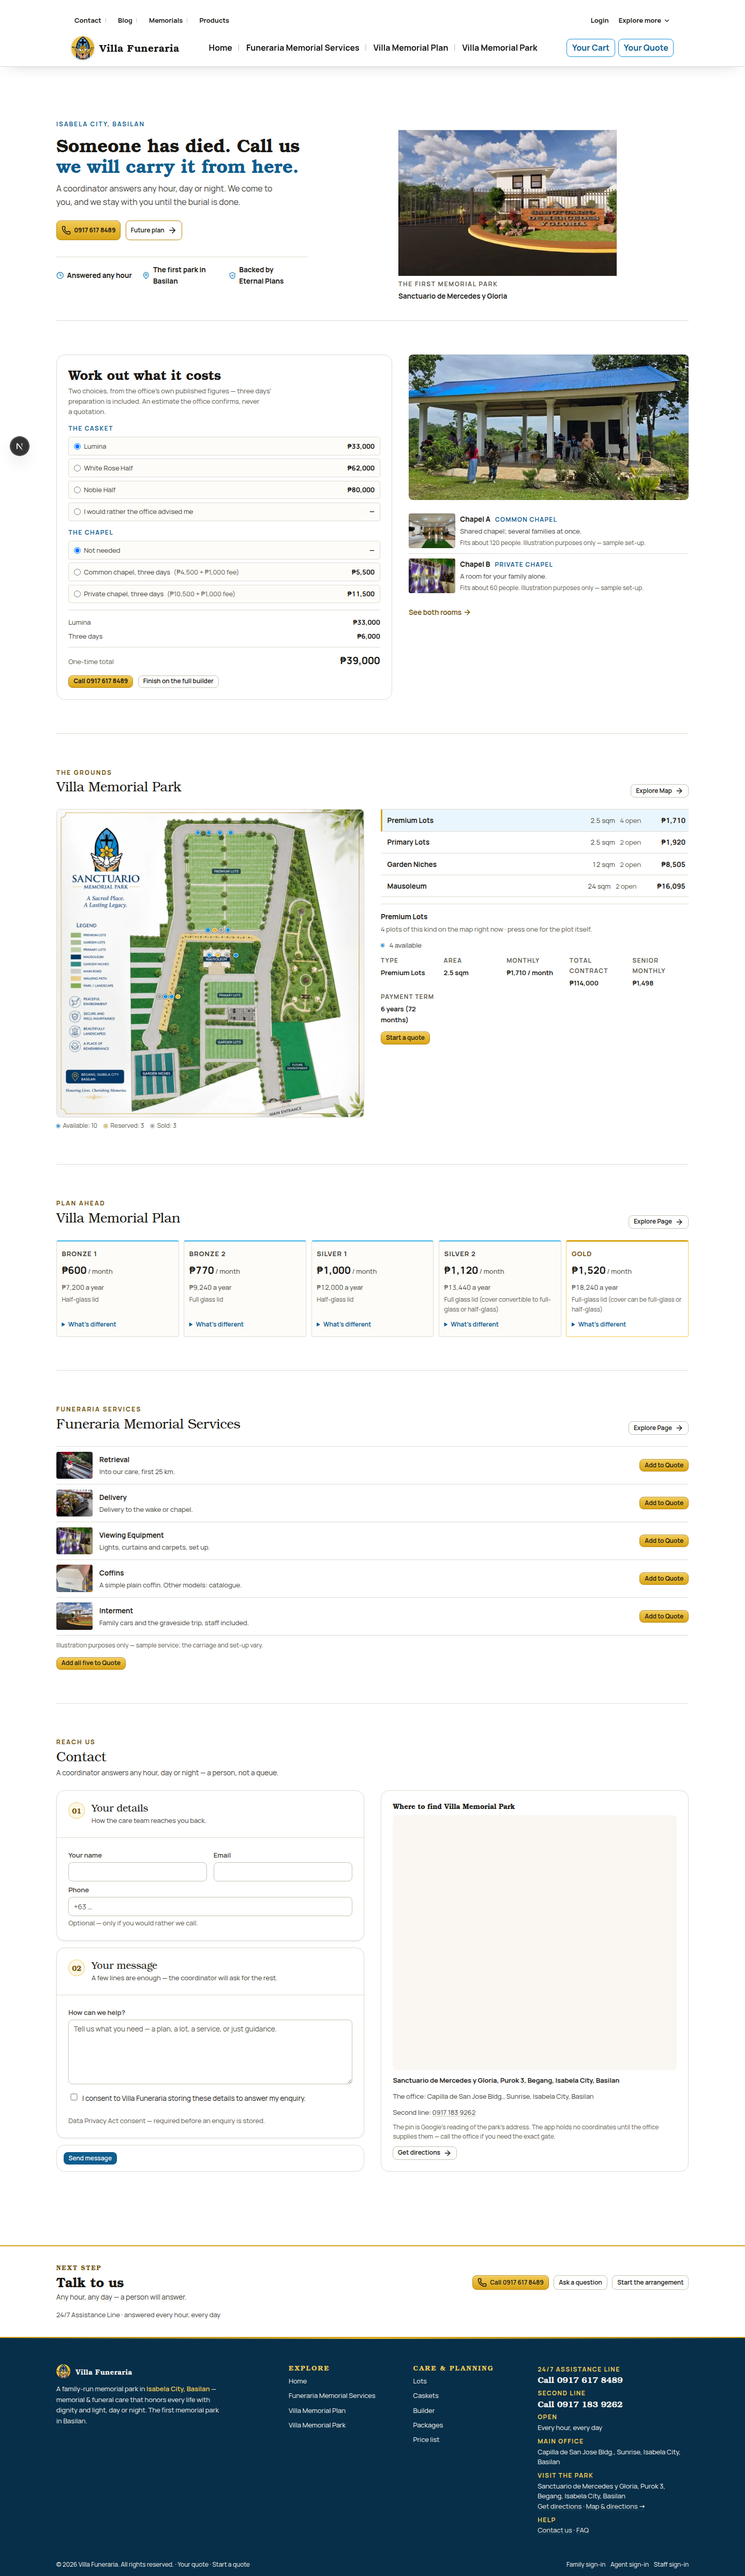
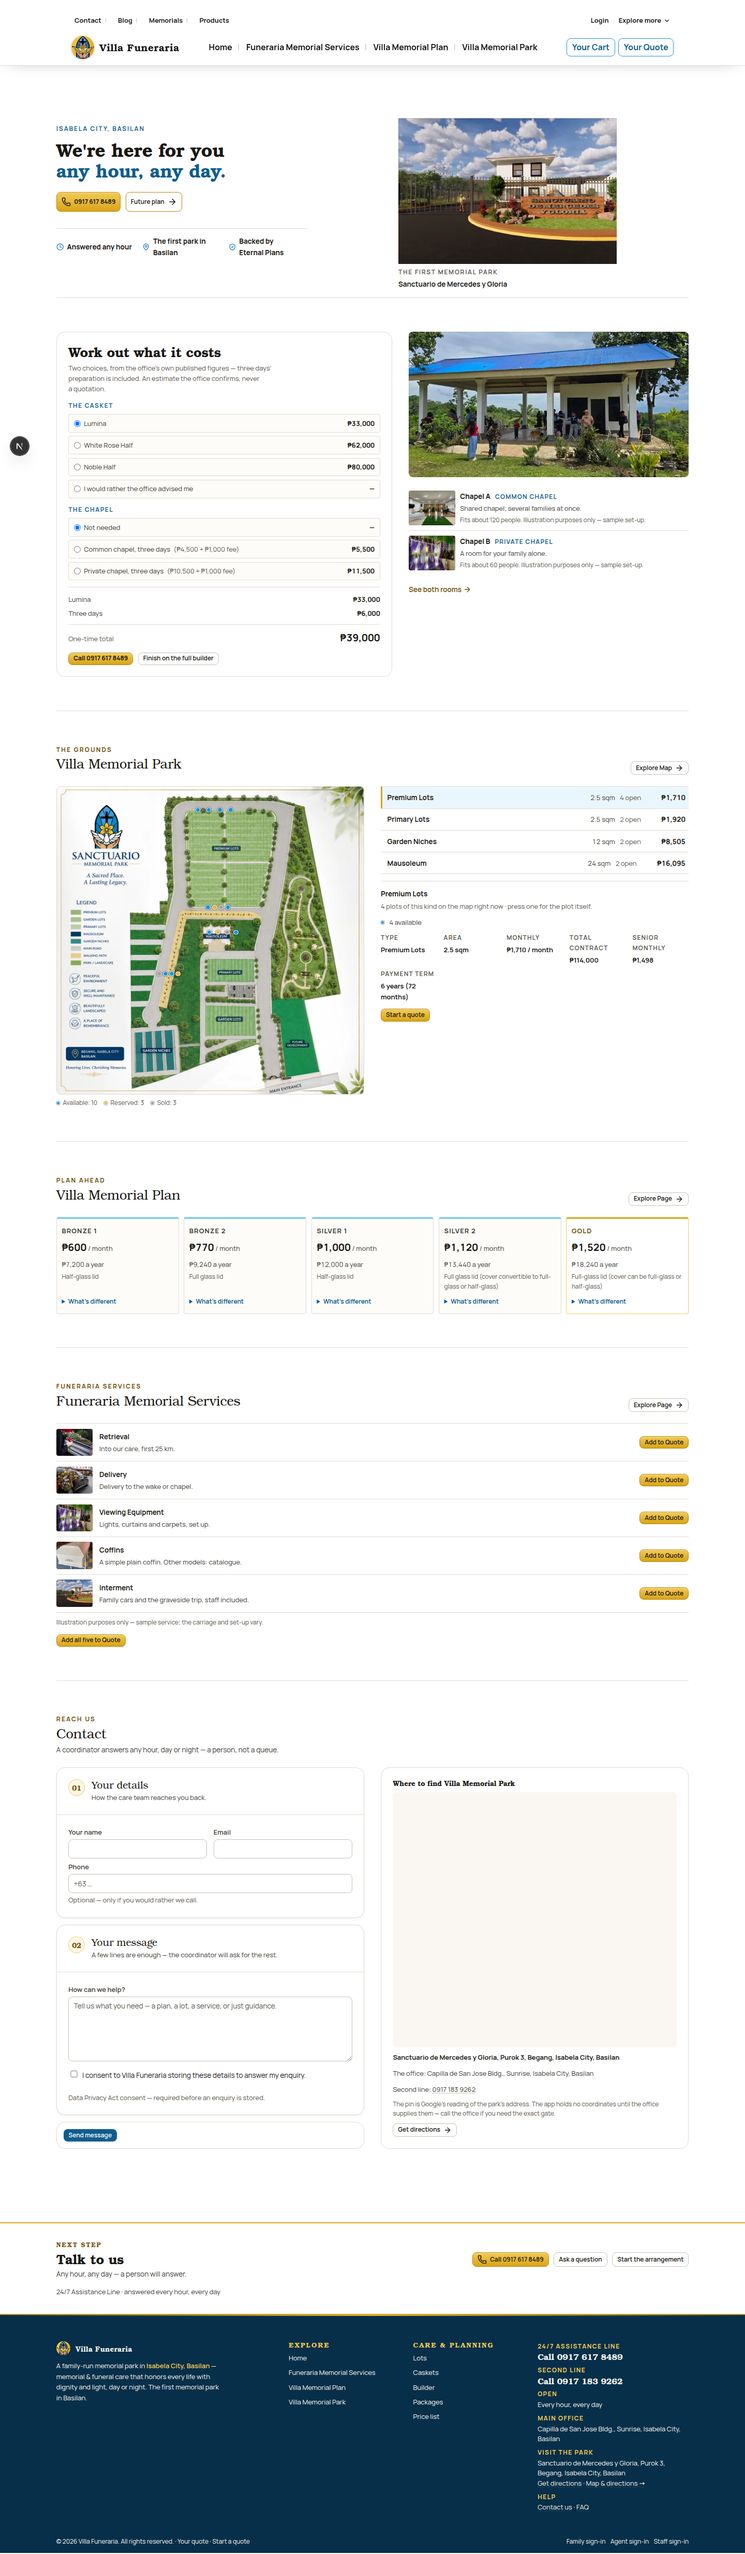
docs(home): the landing record after the merge onto main
Refresh the before/after captures and the measured numbers on the merged head
(the opening lost its lead row, so the page is 4935px @1440 / 7829px @390),
and record how the overlap with main resolved: main's gateway copy and its
two-row opening inside this six-band composition, the section-title pass and
the dependency pass untouched.

diff --git a/docs/08-delivery/landing-revision-design/README.md b/docs/08-delivery/landing-revision-design/README.md
@@ -9,10 +9,10 @@ The route, the links, the figures and the contact details are unchanged.
 
 | | before (`c7ffd38`) | after |
 |---|---|---|
-| full page @ 1440 | **6692 px** | **4977 px** (−26%) |
-| full page @ 390 | **9703 px** | **7919 px** (−18%) |
-| screenshot weight @ 1440 | 2654 KB | 1507 KB |
-| screenshot weight @ 390 | 1947 KB | 901 KB |
+| full page @ 1440 | **6692 px** | **4935 px** (−26%) |
+| full page @ 390 | **9703 px** | **7829 px** (−19%) |
+| screenshot weight @ 1440 | 2654 KB | 1490 KB |
+| screenshot weight @ 390 | 1947 KB | 887 KB |
 | bands | 7 | 6 |
 | images on the page | 16 | 12 |
 | the h1 | 76.4 px (a 1.5× "gateway type scale") | **35.2 px** (`--text-page-title`) |
@@ -20,6 +20,15 @@ The route, the links, the figures and the contact details are unchanged.
 Files: [`before-1440.png`](before-1440.png) · [`before-390.png`](before-390.png) ·
 [`after-1440.png`](after-1440.png) · [`after-390.png`](after-390.png) — full-page captures of
 `http://localhost:4004/`, production CSS, at 1440×900 and 390×844.
+
+**Landed on `main` as the captain's pick.** The branch was rebased onto `main` (`11e359e`)
+after the merge, and the overlap resolved the way the steer asked: **main's gateway copy and
+its two-row opening** (`We're here for you` / `any hour, any day.`, the lead paragraph not
+printed, the browser-tab title `Villa Funeraria — here for you, any hour`) sitting inside
+**this six-band composition**, with the section-title pass, the dependency pass and the rest of
+`main`'s work untouched. The only contested file was `components/public/home-page.tsx`;
+`app/(public)/page.tsx` merged with both deltas intact. `lib/fixtures/landing/content.json` and
+`lib/fixtures/content/pages.json` are `main`'s, byte for byte.
 
 ---
 
@@ -31,9 +40,12 @@ those questions actually arrive, and **each band leads with exactly one dominant
 never a grid of equal boxes.
 
 **1 · The opening — the words lead, the park's own gate supports.**
-Eyebrow (`ISABELA CITY, BASILAN`) → the one headline at the ladder's own top step → a
-≤25-word lead → the ONE action that matters at 3 a.m. (the 24/7 number, gold) with the plan
-action beside it → three recorded facts under a hairline. The photograph is the client's own
+Eyebrow (`ISABELA CITY, BASILAN`) → the headline at the ladder's own top step, with the
+promise as its second line in the sky ink → the ONE action that matters at 3 a.m. (the 24/7
+number, gold) with the plan action beside it → three recorded facts under a hairline. **Two
+text rows, no lead paragraph** — the captain's own later call on `main` (6dc03dc, *"shorter,
+simpler, just relax"*): the any-hour promise already reads in the promise line, the call button
+and the ribbon, so a third line said it a third time. The photograph is the client's own
 picture of the park gate, at a 3:2 band-lead frame with a 22 rem ceiling, **beside** the words
 it supports. Before, the same picture was a full-bleed 74 rem band of its own — a band whose
 only content was a 1184 px image, which is the "unnecessary large imagery" the brief names.
